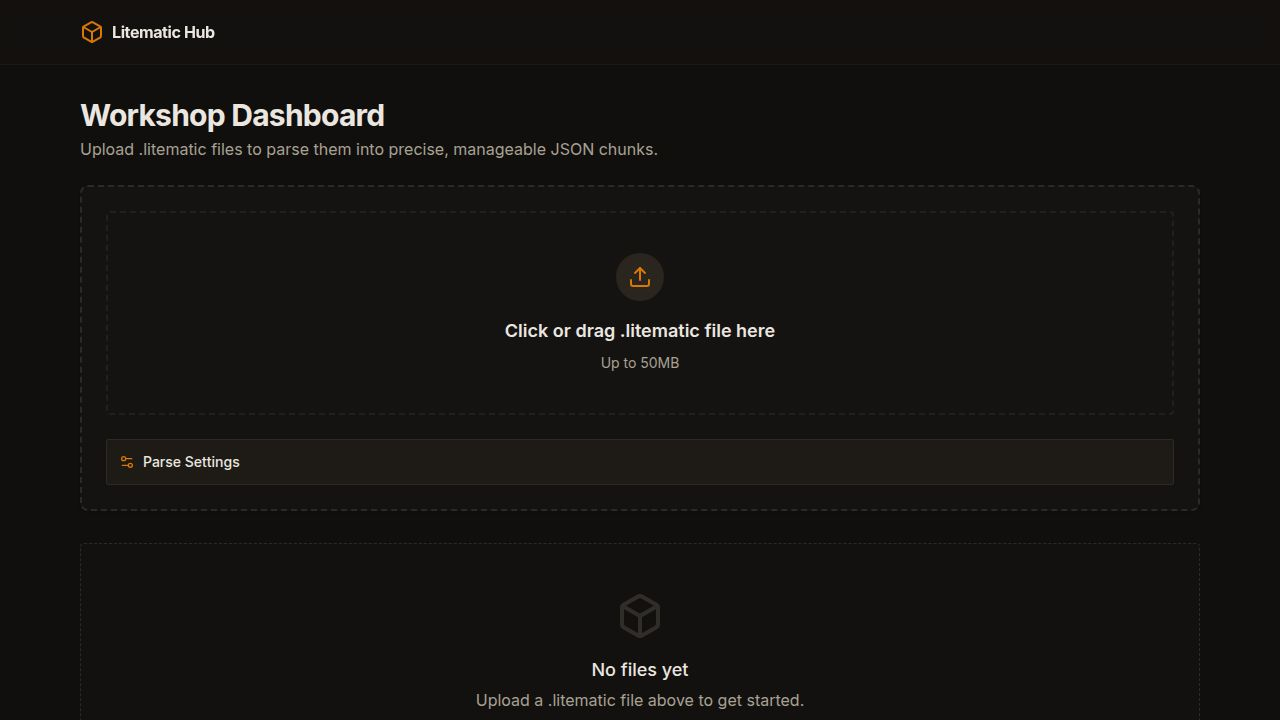
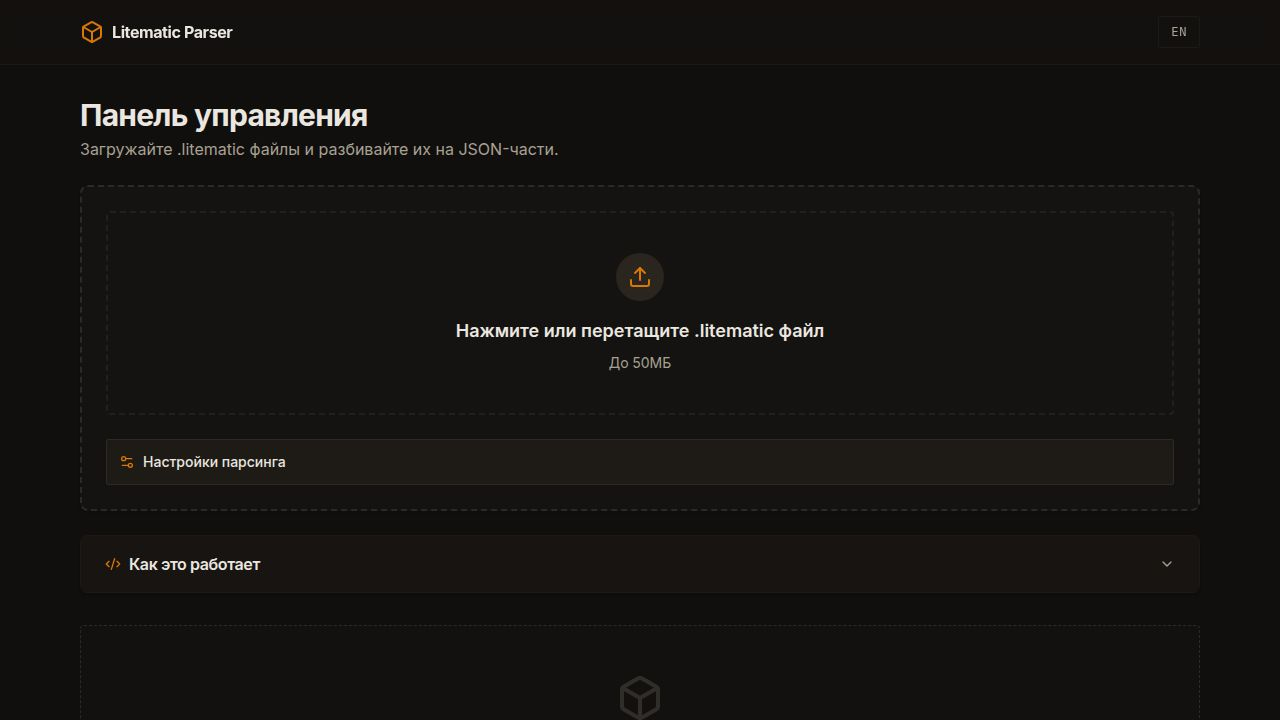
Fix data formatting issues when retrieving file parts
Correctly parse and format file part data to resolve backslash escaping issues by updating the API server, client, and OpenAPI specification.

Replit-Commit-Author: Agent
Replit-Commit-Session-Id: 3b5c14c8-57fe-4fe2-82ae-4401bb4caccb
Replit-Commit-Checkpoint-Type: full_checkpoint
Replit-Commit-Event-Id: 6c0d4742-9dce-4910-8a96-c79d71bbb809
Replit-Commit-Screenshot-Url: https://storage.googleapis.com/screenshot-production-us-central1/0f9914a2-1a8f-4915-bd4a-b39cfd0ef32e/3b5c14c8-57fe-4fe2-82ae-4401bb4caccb/ETL0K5Z
Replit-Helium-Checkpoint-Created: true

diff --git a/artifacts/litematic-hub/src/pages/file-detail.tsx b/artifacts/litematic-hub/src/pages/file-detail.tsx
@@ -61,7 +61,7 @@ export default function FileDetail() {
 
   const handleCopyPart = () => {
     if (partData) {
-      navigator.clipboard.writeText(partData.data);
+      navigator.clipboard.writeText(JSON.stringify(partData.data));
       toast({ title: t.toastCopiedTitle, description: t.toastCopiedDesc });
     }
   };
@@ -146,7 +146,7 @@ export default function FileDetail() {
                     <CardTitle className="text-sm font-medium flex items-center gap-2">
                       {t.partDataTitle} #{selectedPart}
                       <span className="text-xs text-muted-foreground font-mono font-normal ml-2">
-                        {partData ? `${partData.data.length.toLocaleString()} ${t.partChars}` : ""}
+                        {partData ? `${JSON.stringify(partData.data).length.toLocaleString()} ${t.partChars}` : ""}
                       </span>
                     </CardTitle>
                     <Button variant="ghost" size="sm" className="h-7 text-xs px-2" onClick={handleCopyPart} disabled={!partData} data-testid="btn-copy-part-data">
@@ -173,8 +173,8 @@ export default function FileDetail() {
                 ) : partData ? (
                   <ScrollArea className="h-full w-full">
                     <pre className="p-4 text-xs font-mono text-[#a6accd] break-all whitespace-pre-wrap selection:bg-primary/40 leading-relaxed" data-testid="part-data-viewer">
-                      {partData.data}
-                    </pre>
+                    {JSON.stringify(partData.data, null, 2)}
+                  </pre>
                   </ScrollArea>
                 ) : null}
               </div>

diff --git a/artifacts/api-server/src/routes/info.ts b/artifacts/api-server/src/routes/info.ts
@@ -71,7 +71,7 @@ router.get("/part/:key/:number", async (req, res) => {
       key,
       number: num,
       total: fileRow.partCount,
-      data: partRow.data,
+      data: JSON.parse(partRow.data),
     });
   } catch (err) {
     req.log.error({ err }, "getFilePart error");